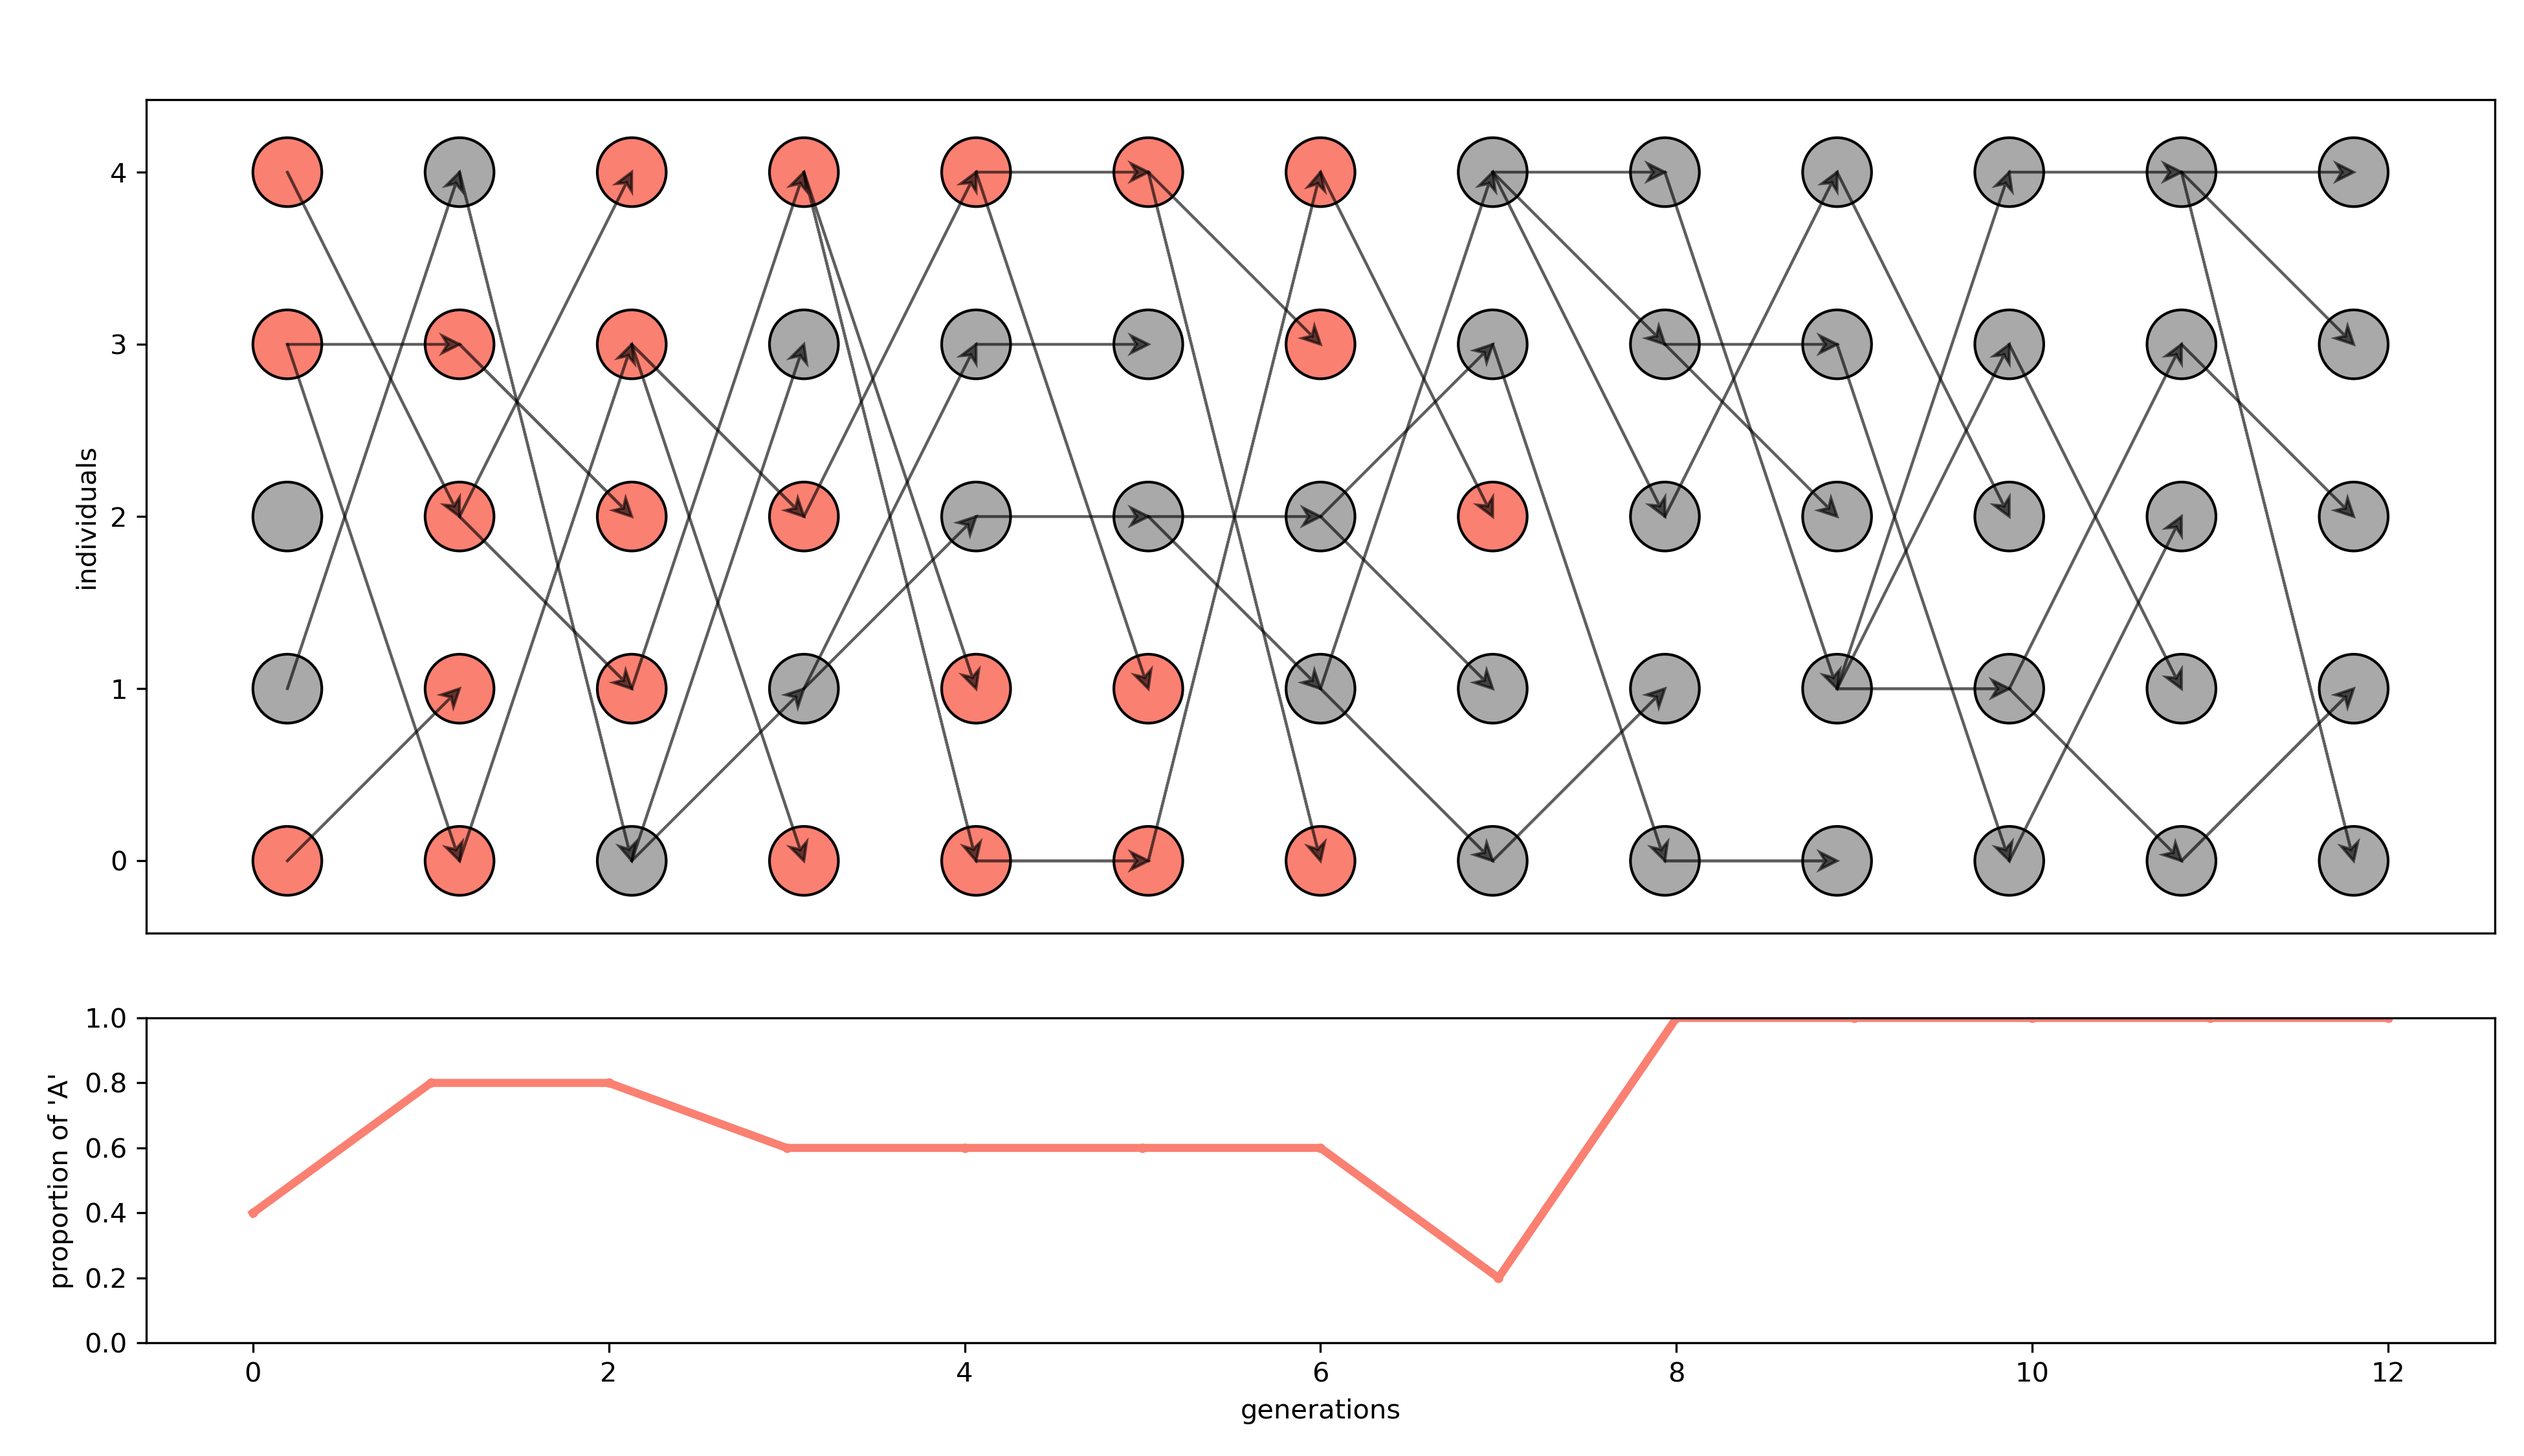
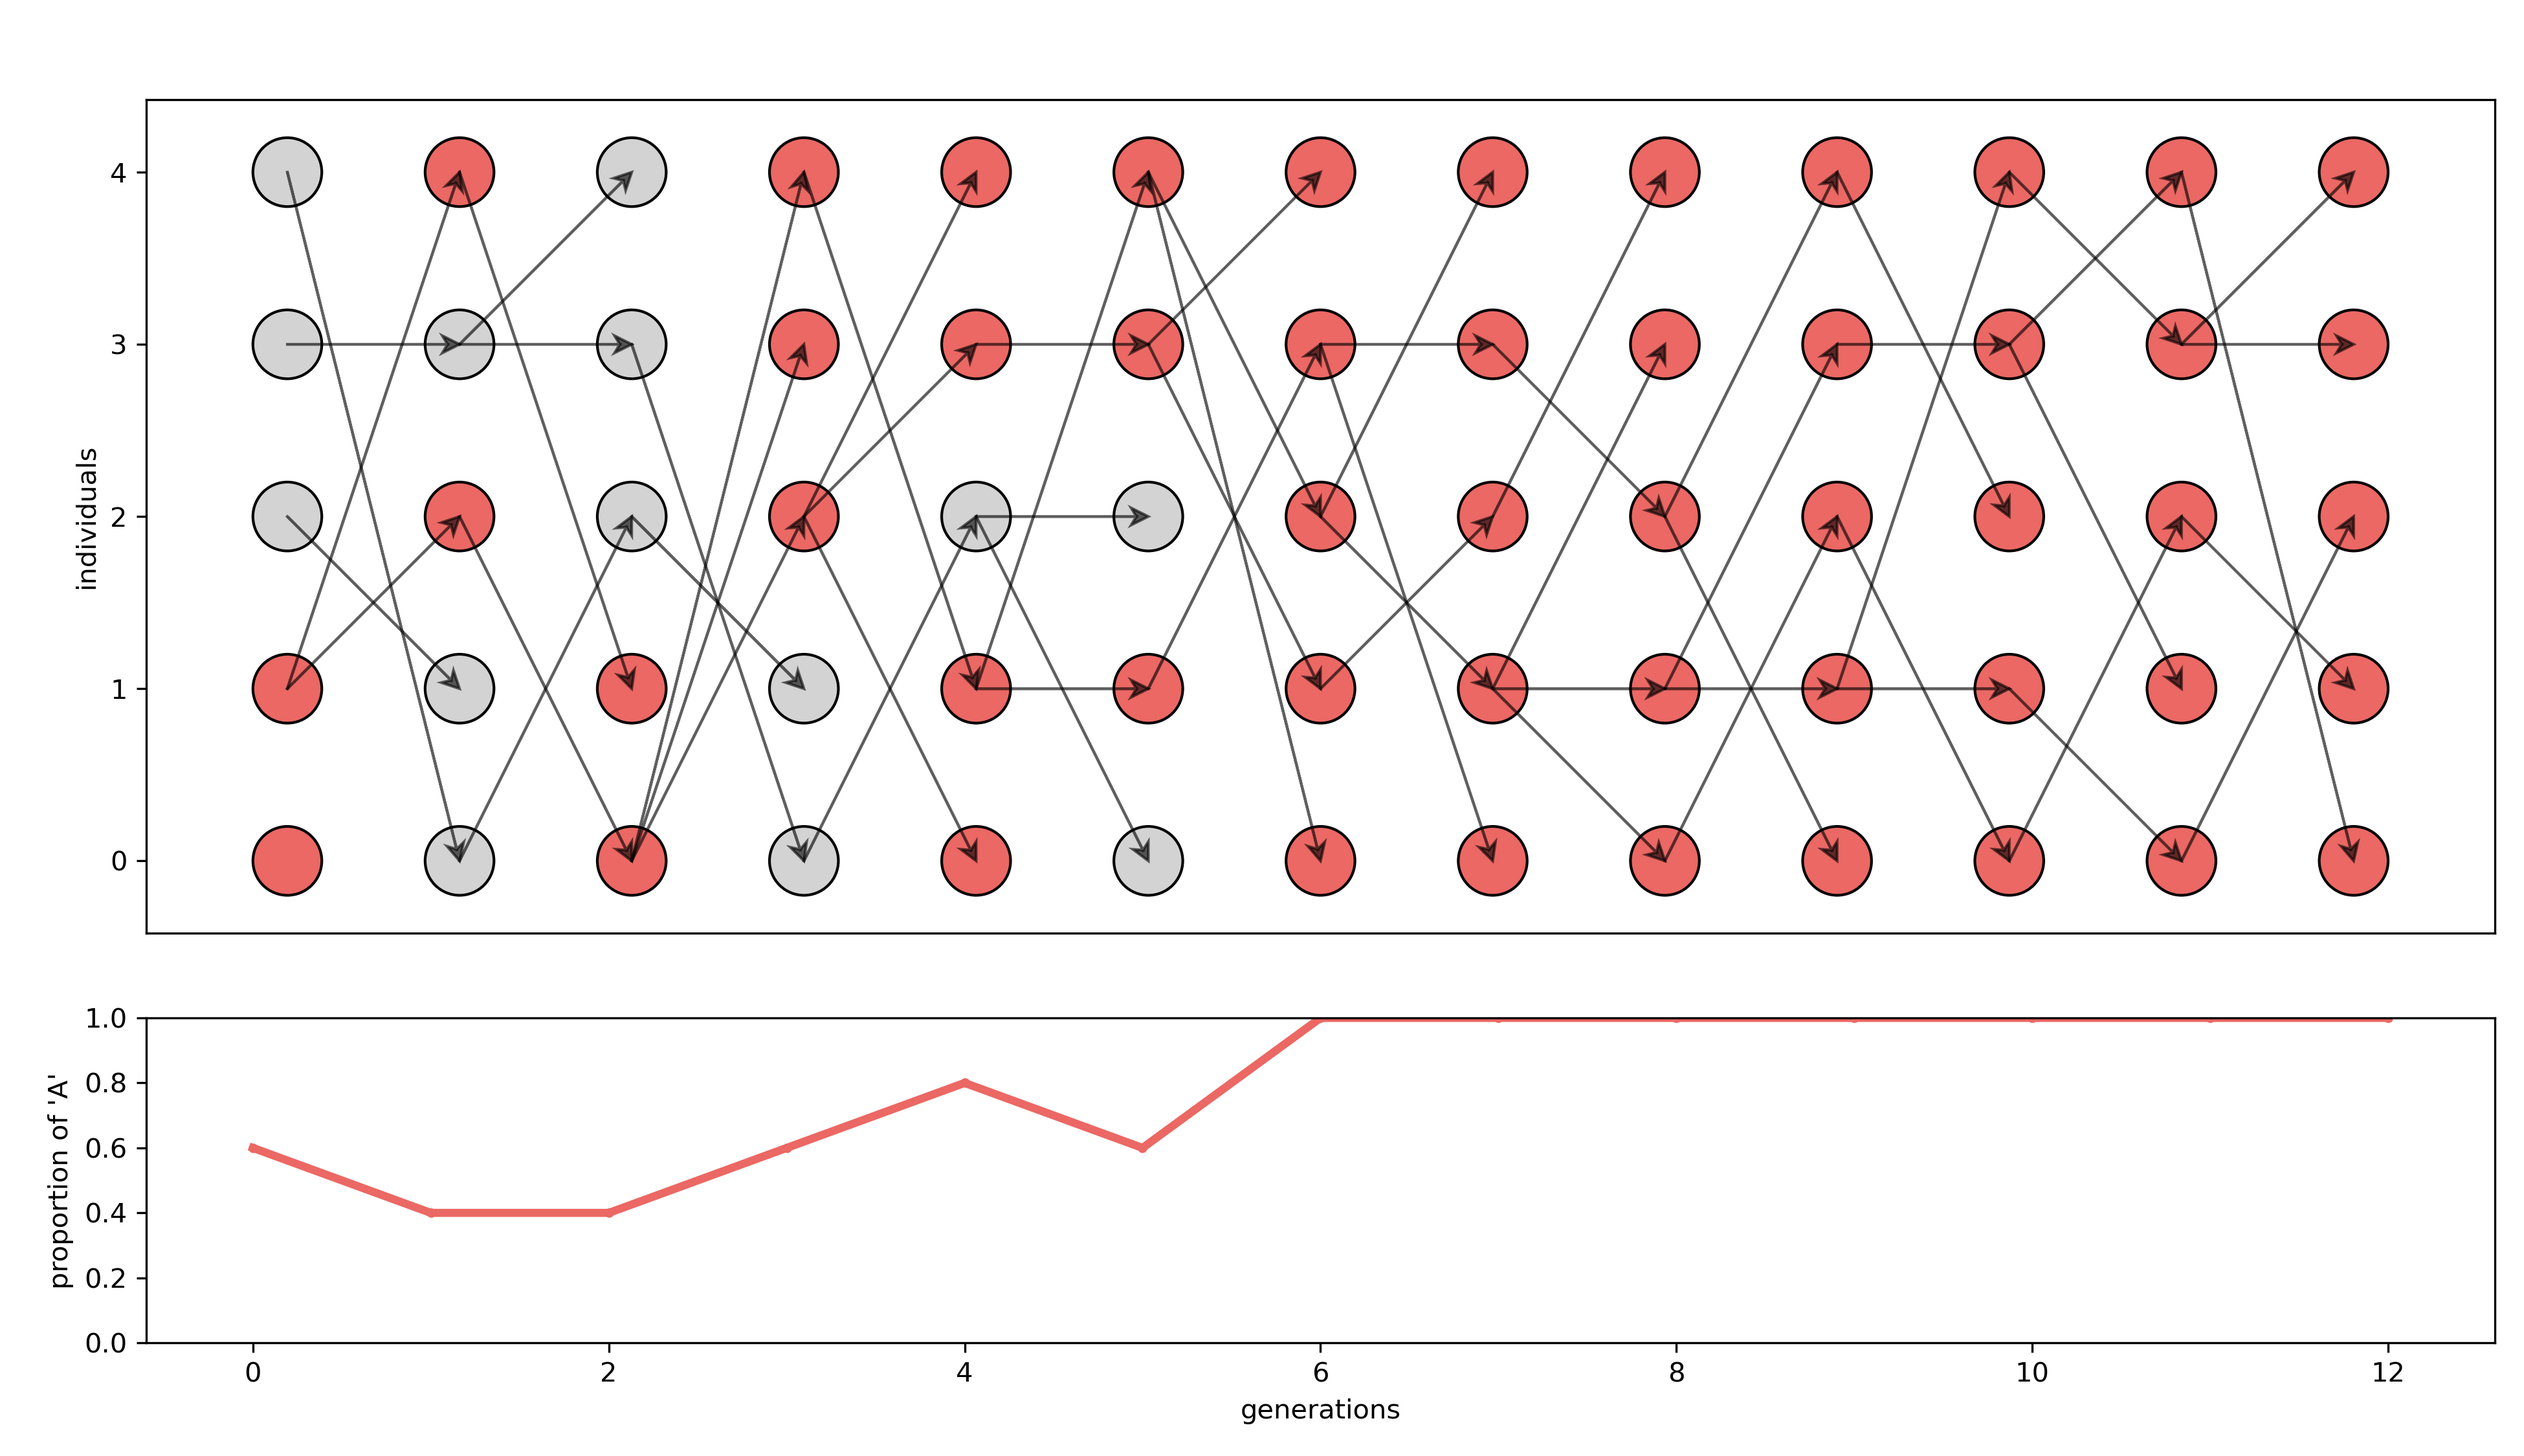
improve plot

diff --git a/src/chains.py b/src/chains.py
@@ -14,8 +14,8 @@ population = pd.Series(
 ps = pd.Series([np.nan] * t_max, name="p")
 ps[0] = population.value_counts(normalize=True,dropna=False).sort_index()[0]
 
-colors = {"A" : "darkgrey", 
-          "B" : "salmon"}
+colors = {"A" : "lightgrey", # colors from Quarto template
+          "B" : "#eb6864"} 
 
 _, axes = plt.subplots(2,1, sharex=False, figsize=(t_max,N * 1.5), height_ratios=[3,1])
 
@@ -34,7 +34,7 @@ for idx, indv in population.items():
 # transmission
 for t in range(1, t_max):
     # draw individuals
-    new_population = population.sample(N,replace=True)
+    new_population = population.sample(N,replace=True, random_state=rng)
     for n, (idx, indv) in enumerate(new_population.items()):
         circ = plt.Circle(xy=(t,n), 
                 facecolor=colors[indv], **circle_kws)
@@ -64,7 +64,7 @@ axes[0].set_aspect('equal') # should be "datalim"
 axes[0].set_ylabel("individuals")
 axes[0].set_xticks([])
 
-axes[1].plot(range(t_max), ps, c="salmon", lw=3, marker=".", markersize=5)
+axes[1].plot(range(t_max), ps, c=colors["B"], lw=3, marker=".", markersize=5)
 # axes[1].fill_between(np.arange(t_max),ps, color="salmon")
 # axes[1].fill_between(np.arange(t_max),ps,1, color="grey")
 axes[1].set_ylim(0,1)
